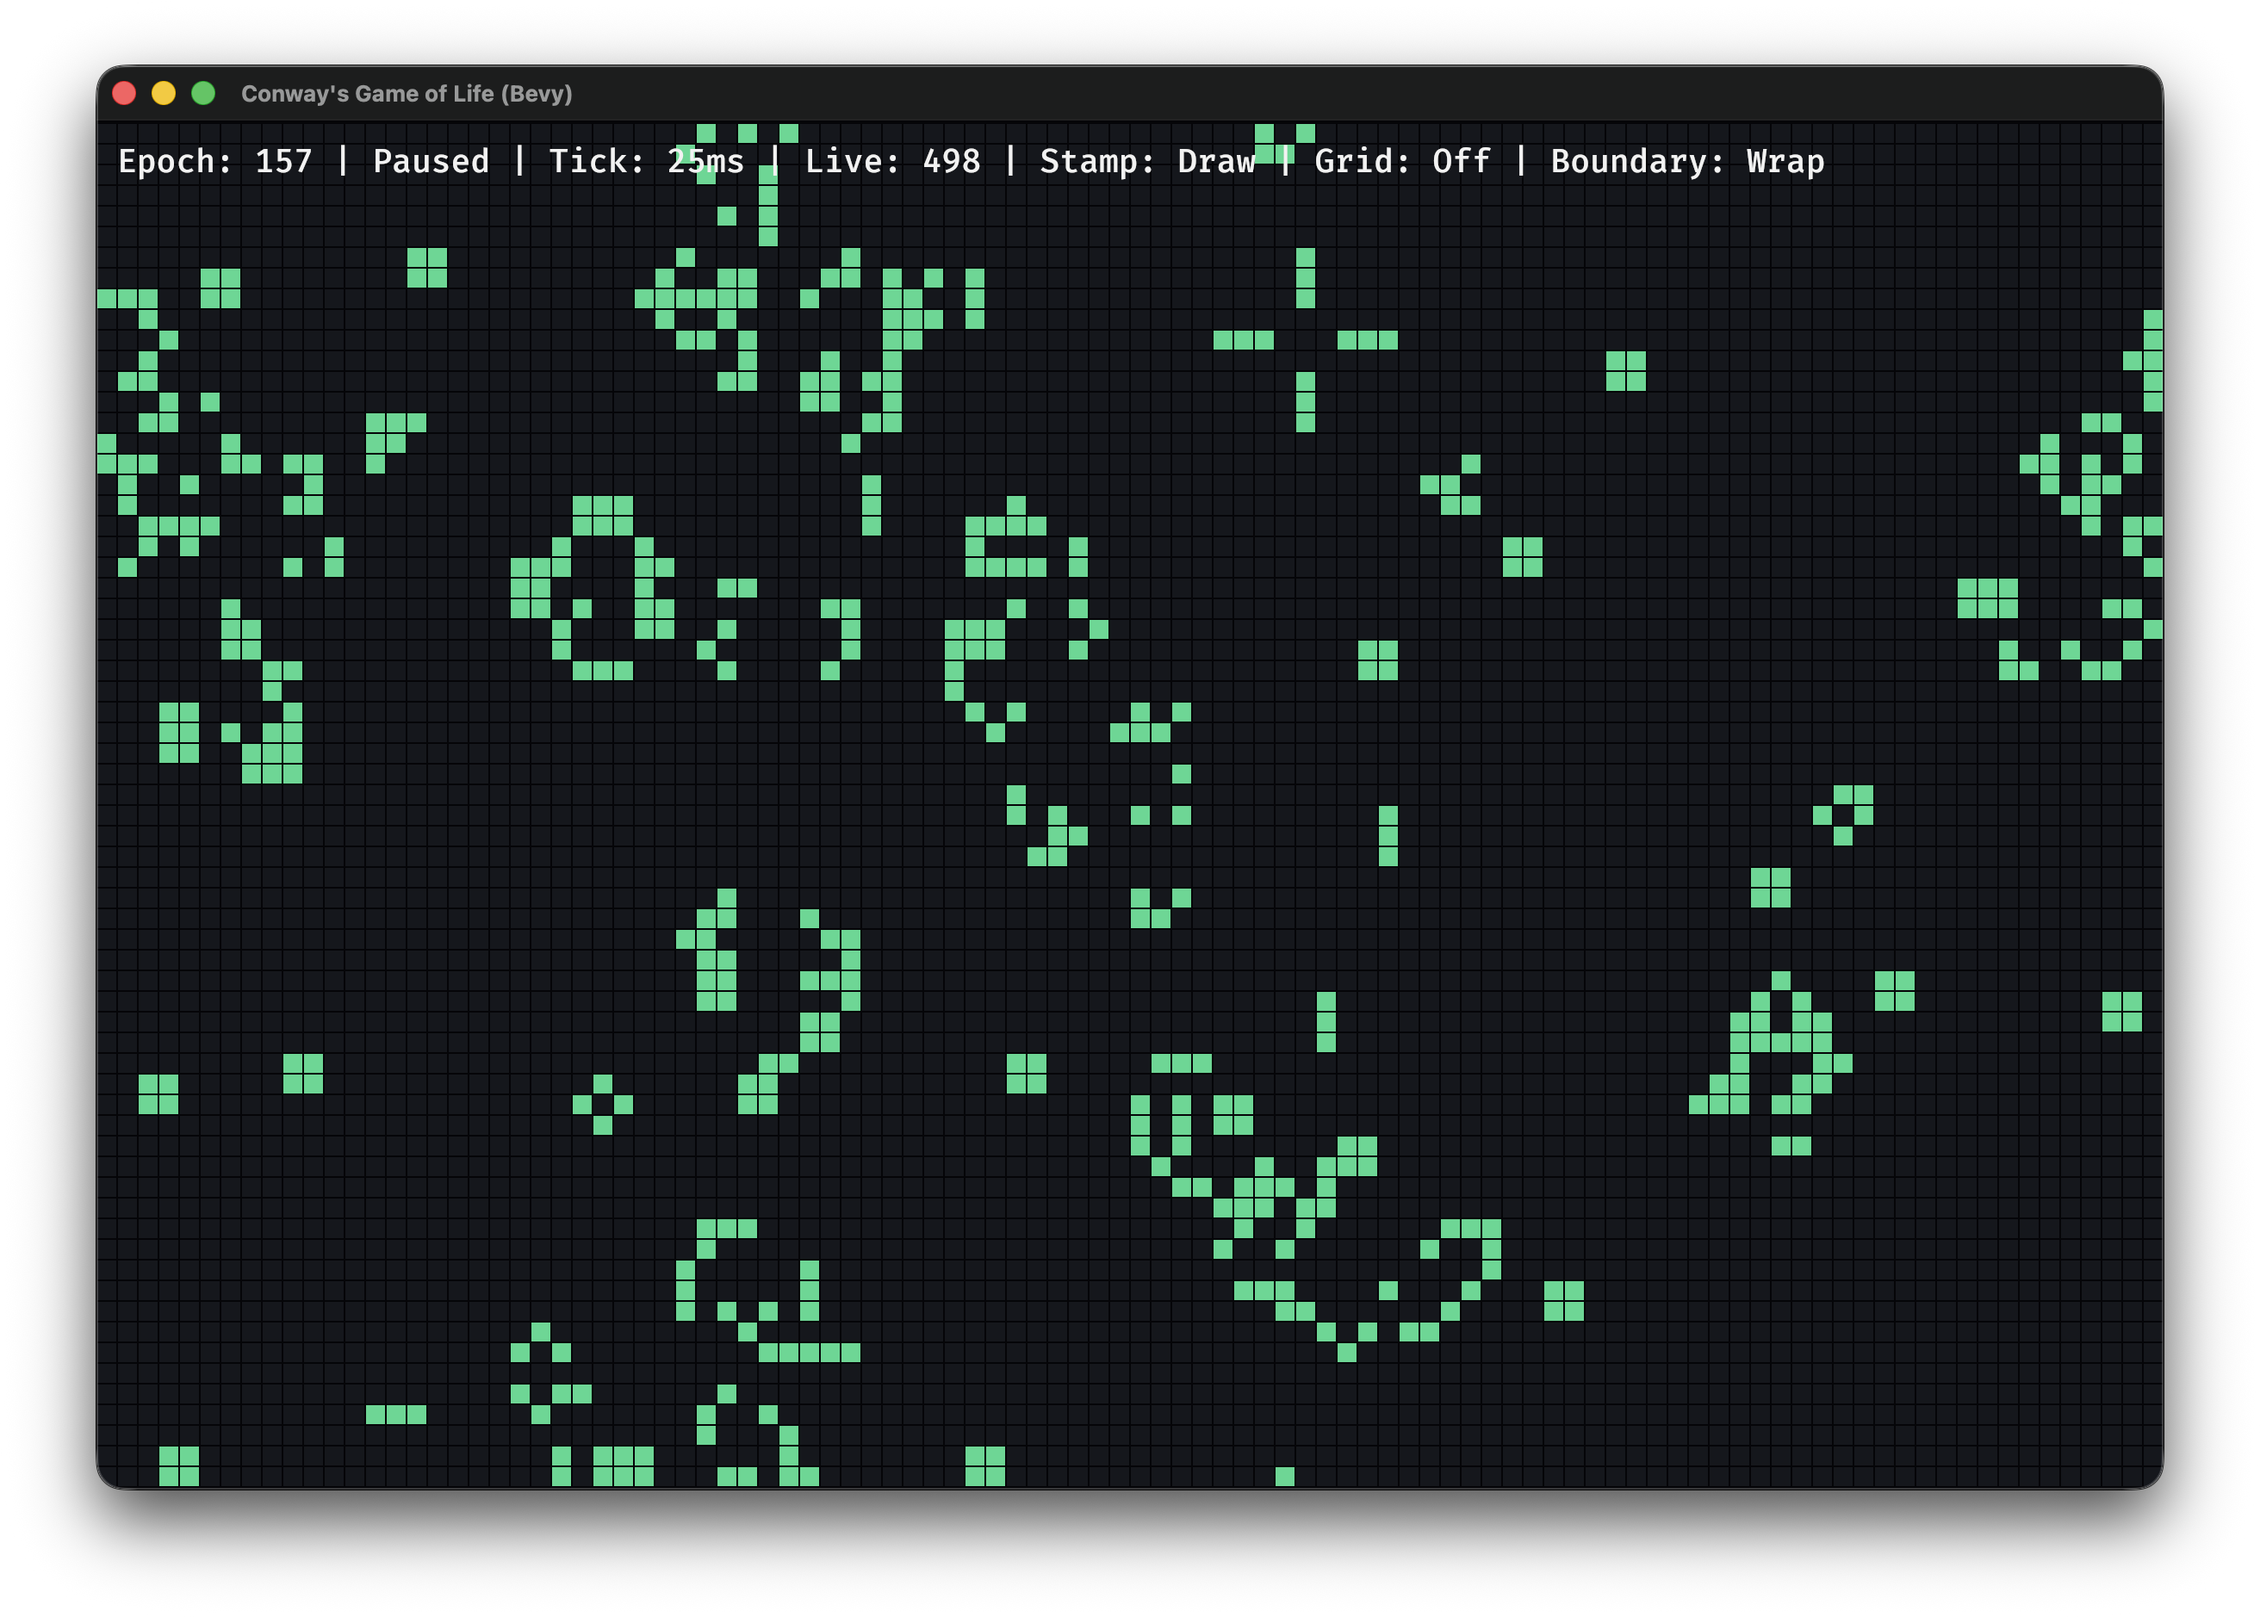
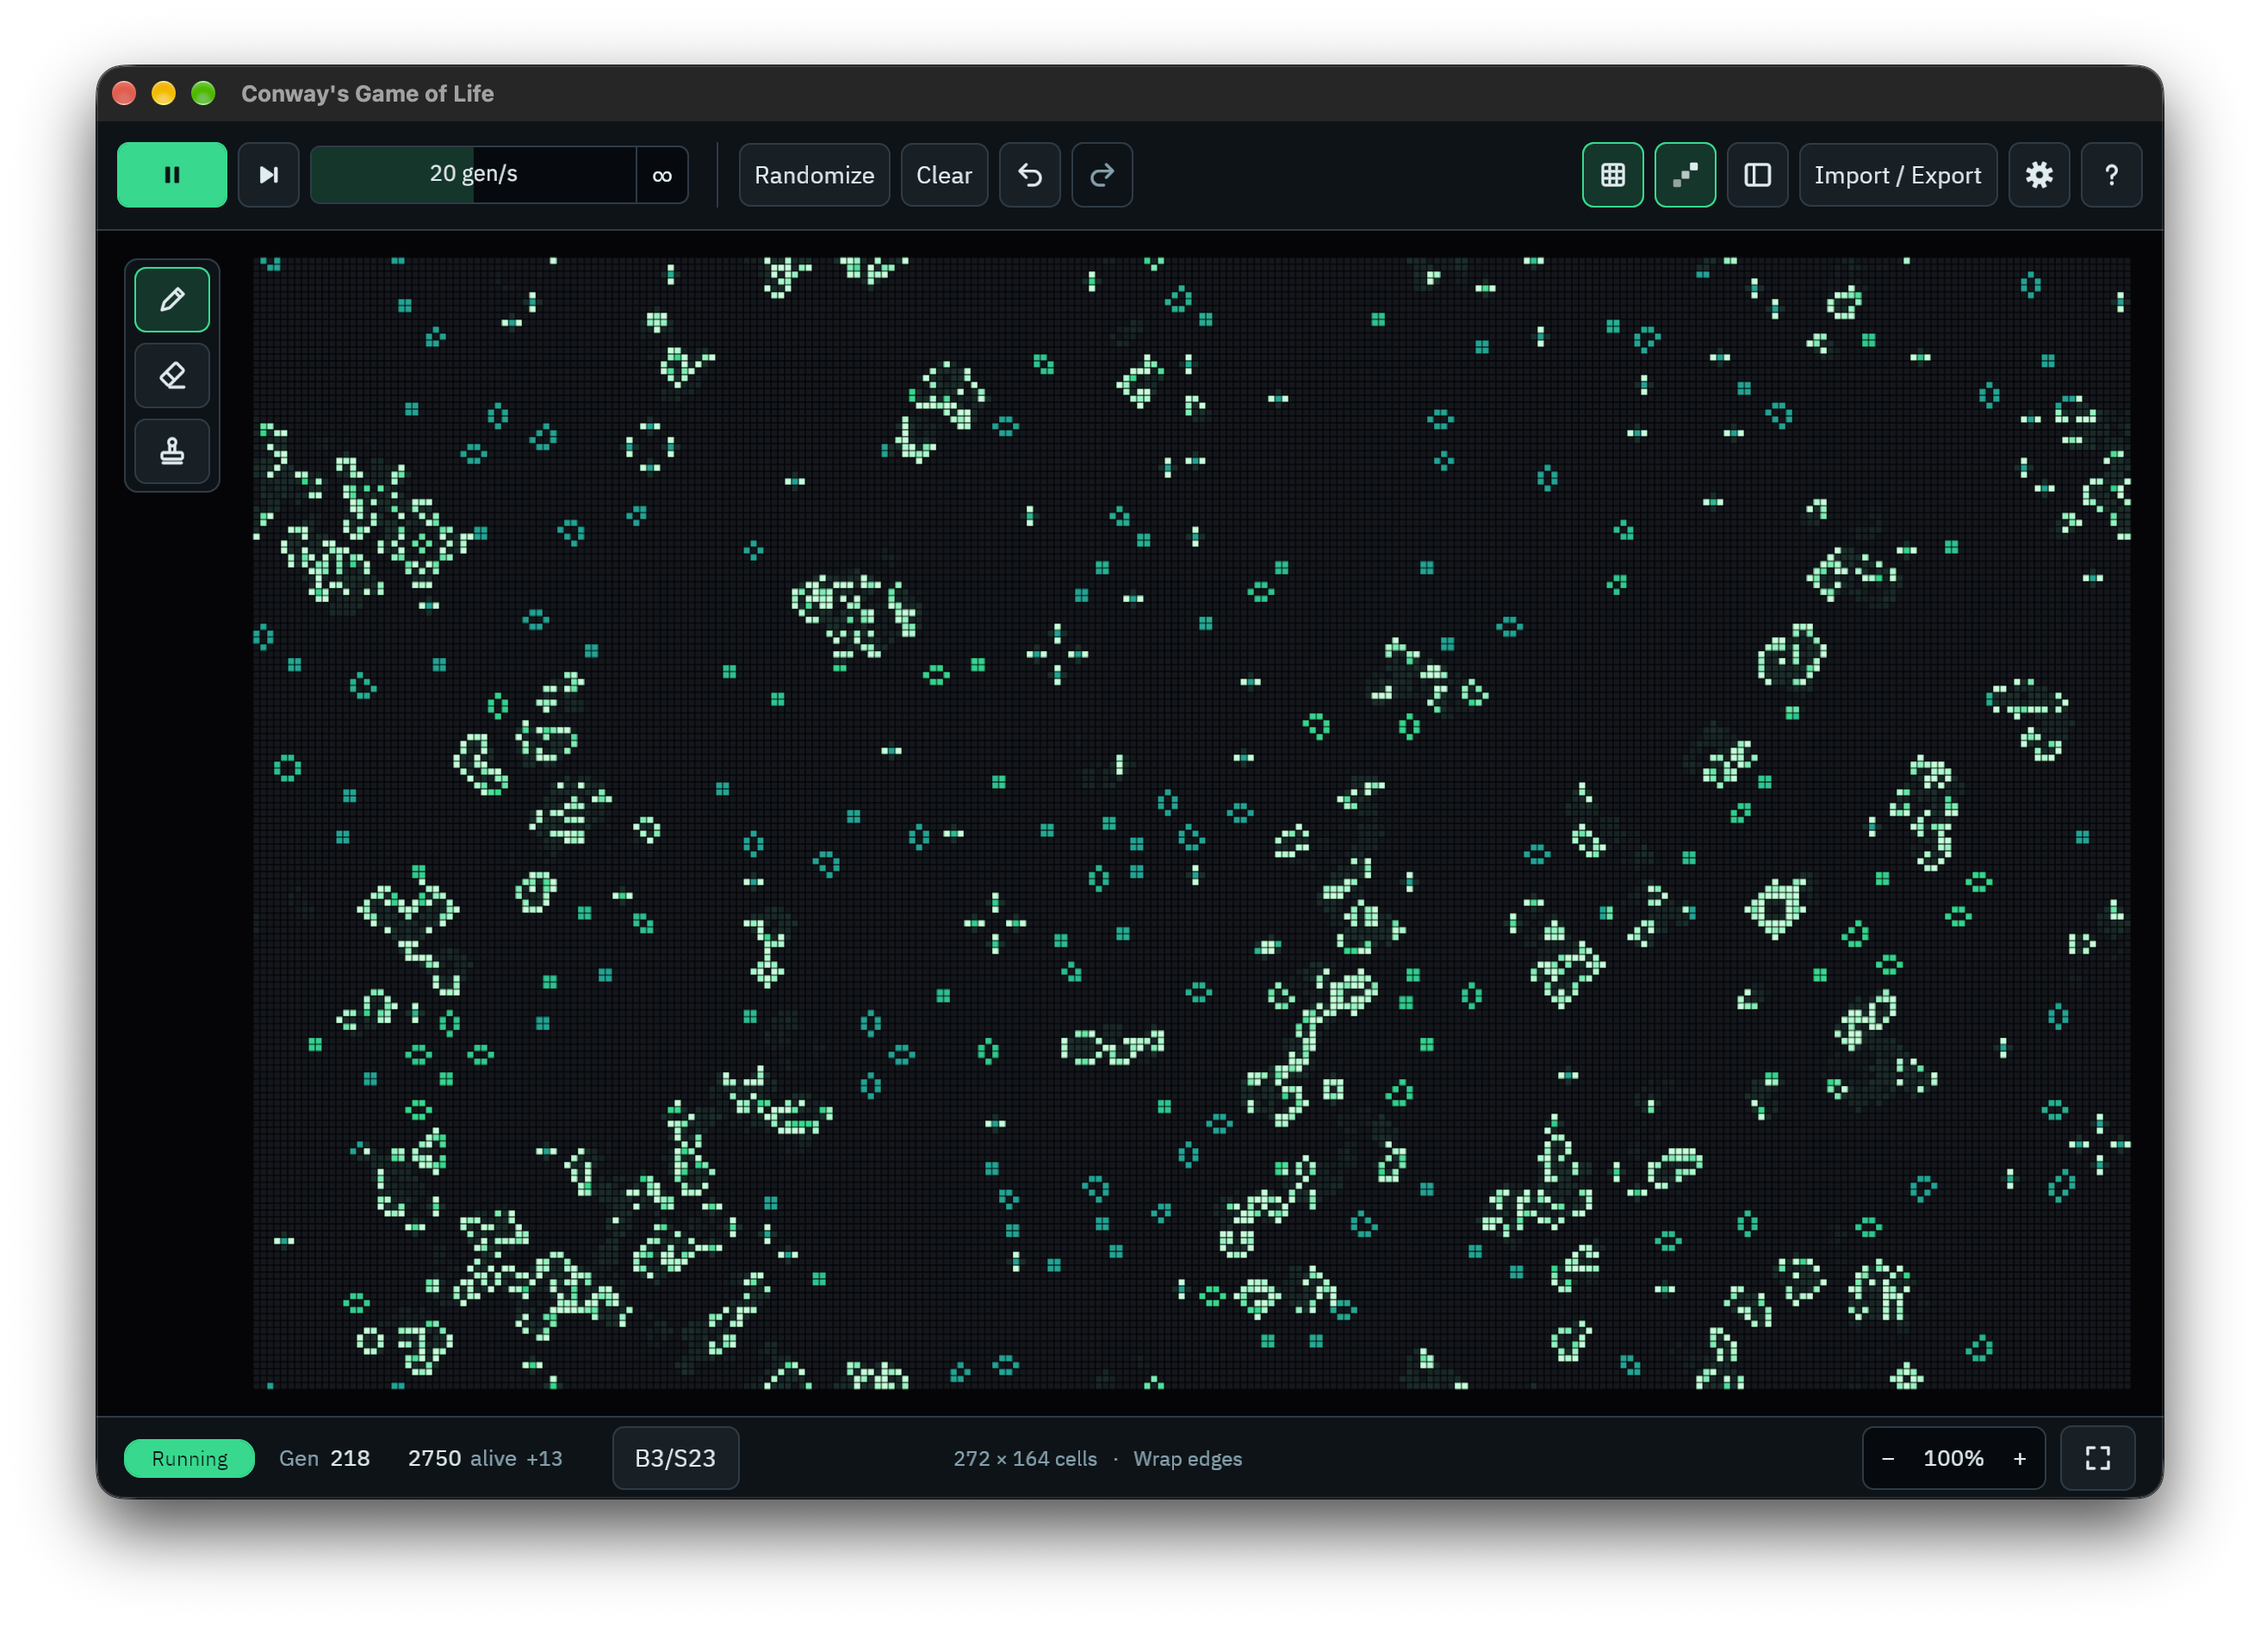
update screenshot

diff --git a/README.md b/README.md
@@ -8,8 +8,6 @@ The full documentation is at <https://andreashdez.github.io/gol_bevy/>.
 
 ![Game of Life screenshot](docs/media/screenshot.png)
 
-![Game of Life demo](docs/media/demo.gif)
-
 ## Download
 
 Each tagged release on the [GitHub Releases page](https://github.com/andreashdez/gol_bevy/releases)
